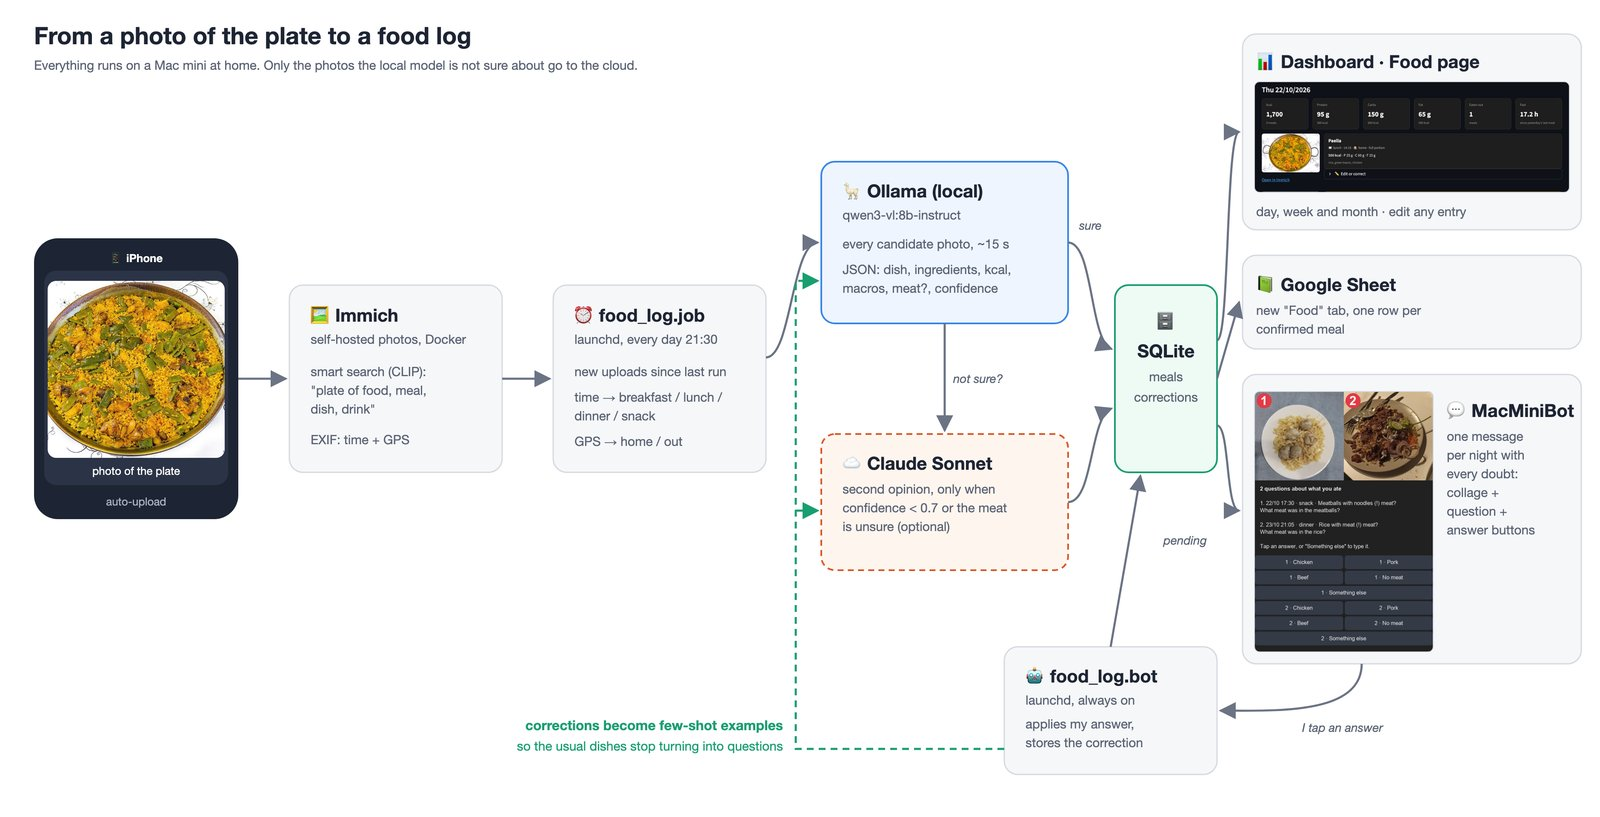
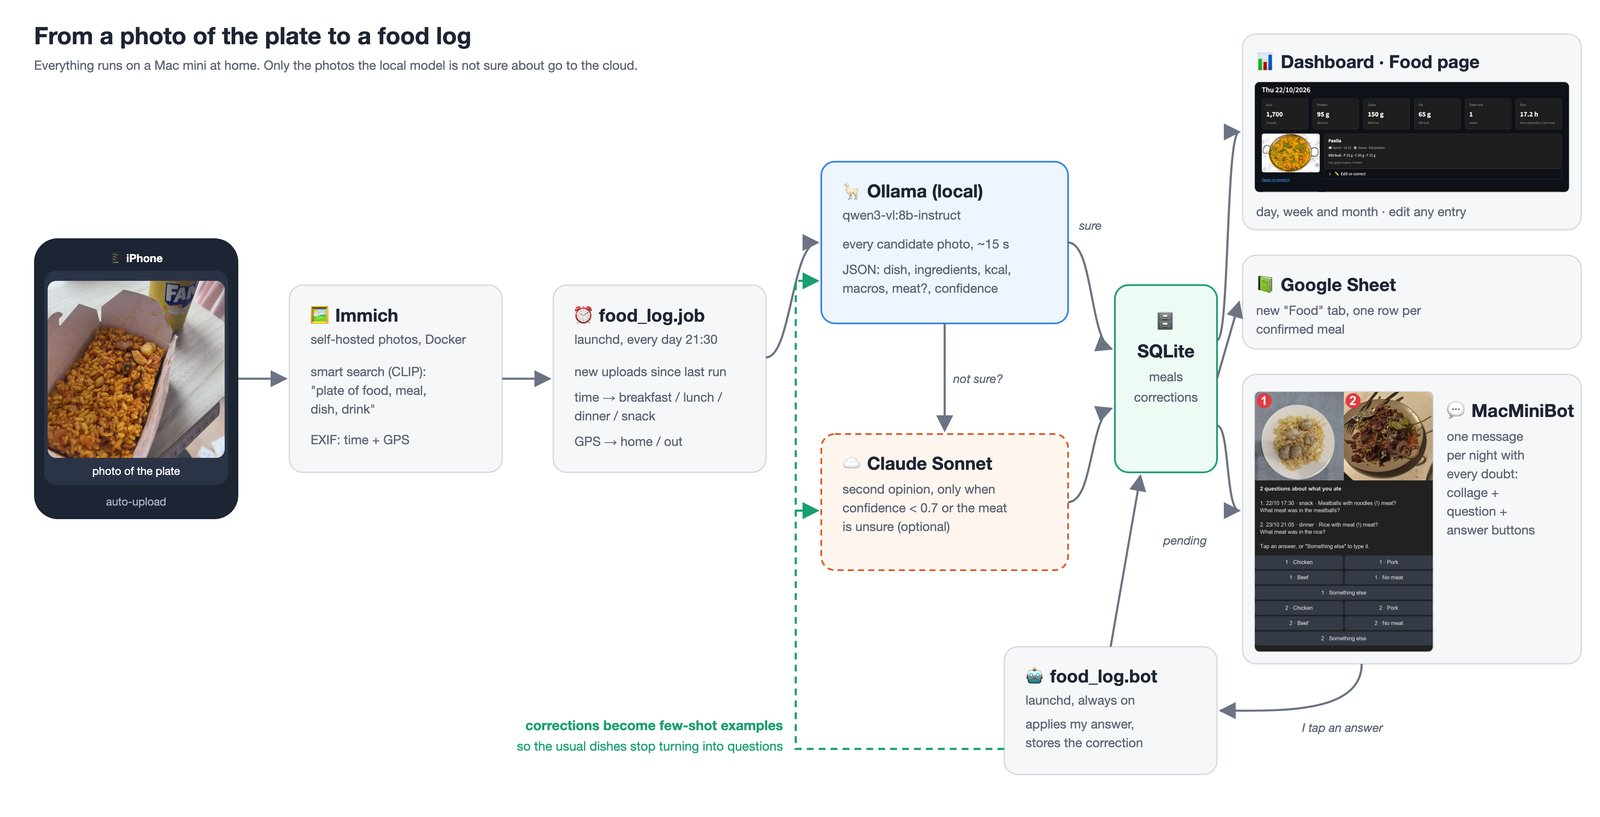
Use my own paella photo as the cover of the food log post

Changed region(s): [[0.0312, 0.3366, 0.1562, 0.5814]]

diff --git a/content/articles/2026-10-24_logging-what-i-eat-with-immich-a-local-vision-model-and-a-telegram-bot/index.md b/content/articles/2026-10-24_logging-what-i-eat-with-immich-a-local-vision-model-and-a-telegram-bot/index.md
@@ -23,6 +23,8 @@ The reason is simple. I have tried calorie counting apps several times, and I al
 
 So the idea was the following: let a machine look at my food photos every evening, figure out what I ate, estimate the calories and macros, and only bother me when it is not sure. Logging what I eat, without having to log what I eat.
 
+The photo on top of this article is the first meal the system logged on its own: a takeaway paella I had today, with a lemon Fanta. It was recognized as a paella with no meat I do not eat, around 500 kcal, eaten out, without asking me anything.
+
 #### The architecture
 
 The whole system lives on the same Mac mini, and it is made of a nightly job, a Telegram listener and a new page in the dashboard. Nothing of it runs in the cloud, except an optional second opinion I will explain later.
@@ -88,6 +90,6 @@ Building this took an afternoon, and most of the interesting problems were not t
 
 It is early to say if this will survive more than the two weeks my previous attempts did, but this time the habit I need to keep is one I already had: taking a photo of the plate. The rest happens while I sleep, or more precisely, while I am having dinner.
 
-_Photo credits for the cover and the screenshots: [Paella Valenciana](https://commons.wikimedia.org/wiki/File:01_Paella_Valenciana_original.jpg) by Jan Harenburg (CC BY-SA 4.0), [seared salmon](https://commons.wikimedia.org/wiki/File:DZ6_1891_Seared_salmon_in_a_rich_brown_sauce_with_grilled_potatoes_fresh_greens_and_toasted_bread_garnished_with_dill.jpg) by PattayaPatrol (CC BY-SA 4.0), [döner kebab plate](https://commons.wikimedia.org/wiki/File:D%C3%B6ner_Kebab_plate_with_onions.jpg) by Almanta (CC BY-SA 4.0) and [Swedish meatballs](https://commons.wikimedia.org/wiki/File:Swedish_meatballs_with_egg_noodles.jpg) by RandomKatze (CC0), all from Wikimedia Commons._
+_Photo credits for the screenshots (the cover is my own): [Paella Valenciana](https://commons.wikimedia.org/wiki/File:01_Paella_Valenciana_original.jpg) by Jan Harenburg (CC BY-SA 4.0), [seared salmon](https://commons.wikimedia.org/wiki/File:DZ6_1891_Seared_salmon_in_a_rich_brown_sauce_with_grilled_potatoes_fresh_greens_and_toasted_bread_garnished_with_dill.jpg) by PattayaPatrol (CC BY-SA 4.0), [döner kebab plate](https://commons.wikimedia.org/wiki/File:D%C3%B6ner_Kebab_plate_with_onions.jpg) by Almanta (CC BY-SA 4.0) and [Swedish meatballs](https://commons.wikimedia.org/wiki/File:Swedish_meatballs_with_egg_noodles.jpg) by RandomKatze (CC0), all from Wikimedia Commons._
 
 I write my thoughts about Software Engineering and life in general on my [Mastodon account](https://kotlin.social/@eenriquelopez). If you have liked this article or if it did help you, feel free to share, 👏 it and/or leave a comment. This is the currency that fuels amateur writers.
